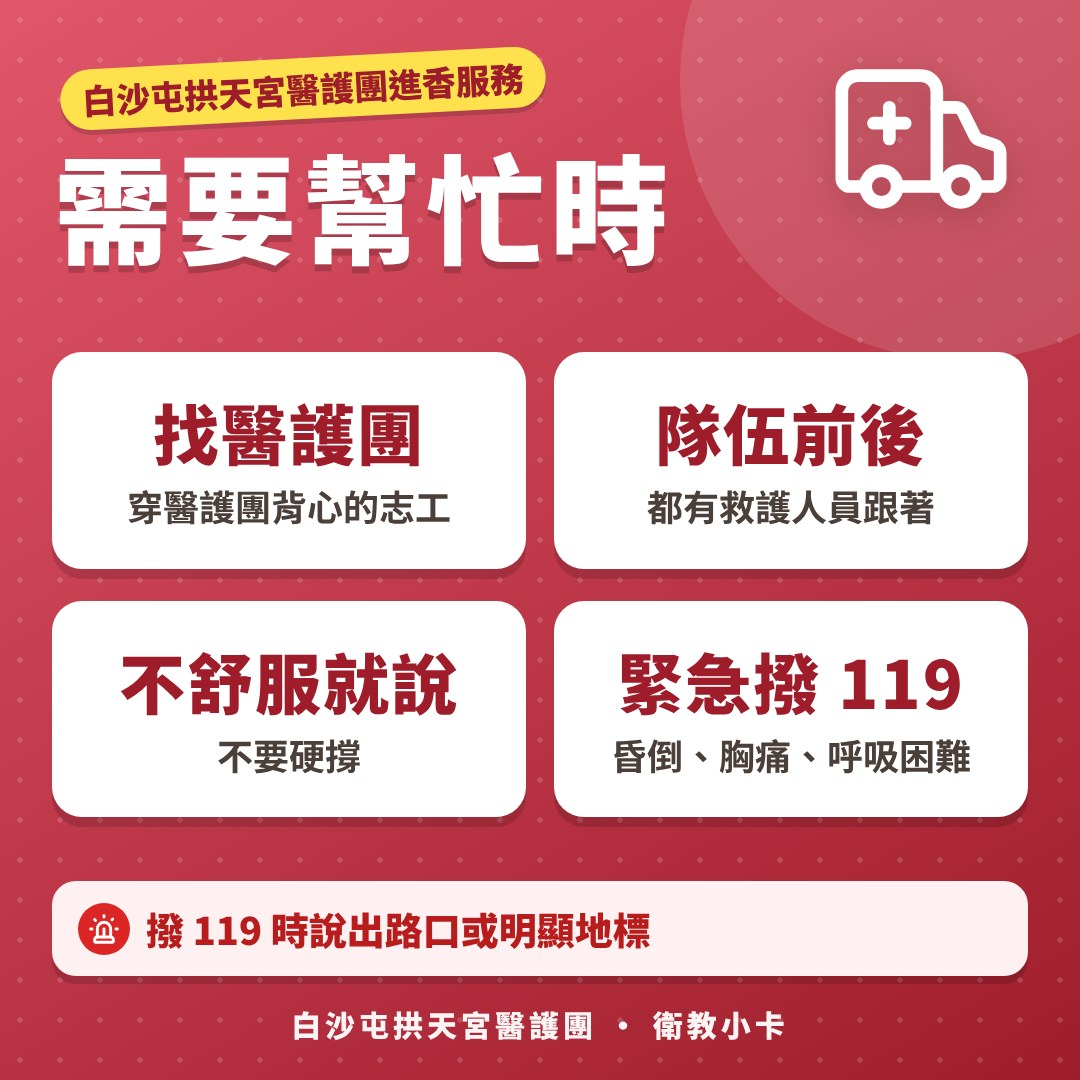
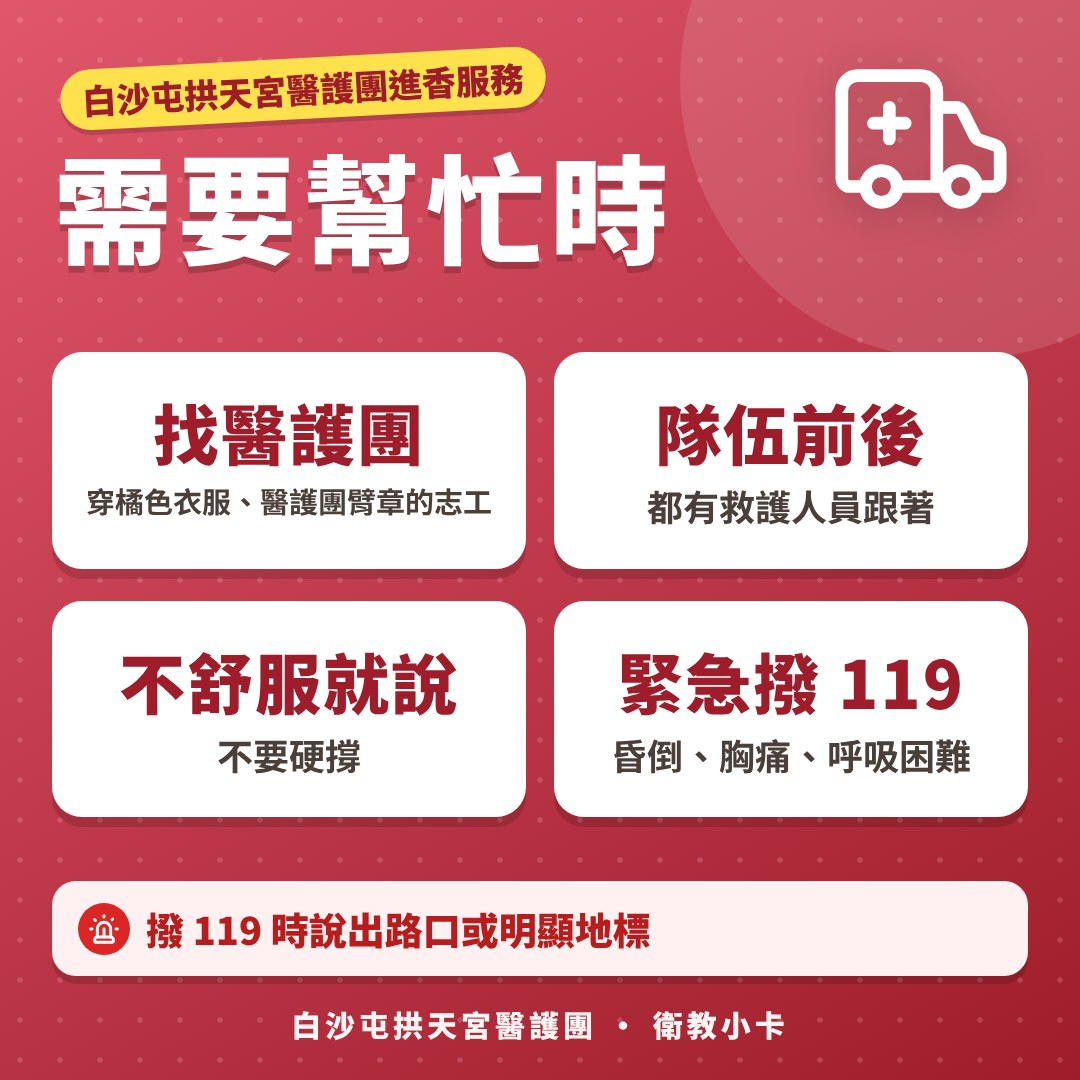
衛教：找醫護團改成穿橘色衣服、醫護團臂章的志工
Claude-Session: https://claude.ai/code/session_01UgnuMUR9BFixKJirFzAXJh

Changed region(s): [[0.0611, 0.4278, 0.4583, 0.4889]]

diff --git a/security/worker.js b/security/worker.js
@@ -343,7 +343,7 @@ const EDU = [
     ], warn: '腳不能踩地、明顯變形或傷口很深流血不止，請找醫護團或撥 119' },
   { emoji: '🚑', tag: 'NEED HELP', img: 'help', title: '需要幫忙時', sub: '白沙屯拱天宮醫護團進香服務', c1: '#D65A68', c2: '#B4232F',
     secs: [
-      ['📍', '找醫護團', '#B4232F', ['找穿醫護團背心的志工', '隊伍前後都有救護人員跟著', '覺得不舒服就說，不要硬撐']],
+      ['📍', '找醫護團', '#B4232F', ['找穿橘色衣服、醫護團臂章的志工', '隊伍前後都有救護人員跟著', '覺得不舒服就說，不要硬撐']],
       ['☎', '緊急狀況', '#B4232F', ['昏倒、胸痛、呼吸困難、叫不醒', '立刻撥 119，並告訴對方在哪個路口或明顯地標']],
     ] },
 ];
@@ -576,8 +576,8 @@ const SHARE_LIFF = 'https://liff.line.me/2011820105-Is9eno4N', OA_URL = 'https:/
 // 內建衛教小卡（圖在 /richmenu/card-*.jpg，由 scratchpad edu_card.py 產生）
 const EDU_H = {};   // 衛教小卡都是 1080×1080 正方形
 const EDU_CARDS = Object.fromEntries(EDU.map(e => ['edu-' + e.img, { id: 'edu-' + e.img, builtin: true, w: 1080, h: EDU_H[e.img] || 1080,
-  alt: '衛教小卡：' + e.title, imgUrl: `${SITE}/richmenu/card-${e.img}.jpg?v=4` }]));
-EDU_CARDS['edu-all'] = { id: 'edu-all', builtin: true, w: 1080, h: 1080, alt: '衛教小卡（6 張，左右滑動）', imgUrl: `${SITE}/richmenu/card-heat.jpg?v=4`,
+  alt: '衛教小卡：' + e.title, imgUrl: `${SITE}/richmenu/card-${e.img}.jpg?v=5` }]));
+EDU_CARDS['edu-all'] = { id: 'edu-all', builtin: true, w: 1080, h: 1080, alt: '衛教小卡（6 張，左右滑動）', imgUrl: `${SITE}/richmenu/card-heat.jpg?v=5`,
   title: '衛教小卡・一次分享 6 張', text: '中暑、水泡、抽筋、曬傷、扭傷、求助，收到的人可以左右滑動看完。' };
 EDU_CARDS.guardian = { id: 'guardian', builtin: true, w: 1024, h: 756, alt: '全民醫護證｜不用證照，也能守護身邊的人', imgUrl: `${SITE}/richmenu/guardian-promo.jpg?v=3`,
   title: '領一張你的全民醫護證', text: '不用證照，也能守護身邊的人。放上照片、勾選你會的守護技能，做一張屬於你的醫護證！', btn: '🪪 領取我的全民醫護證', url: GUARDIAN_URL };
